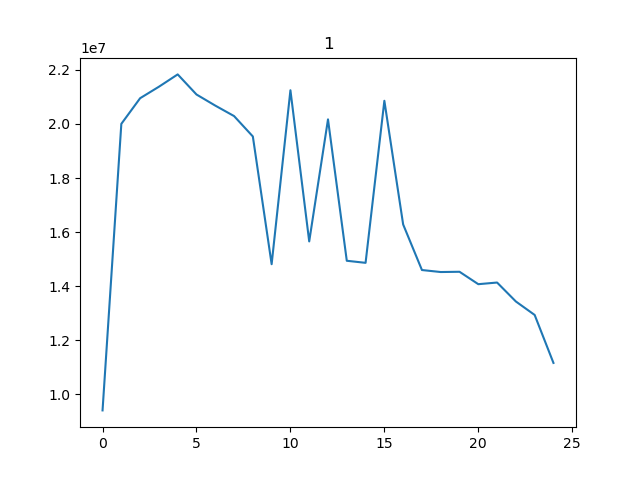
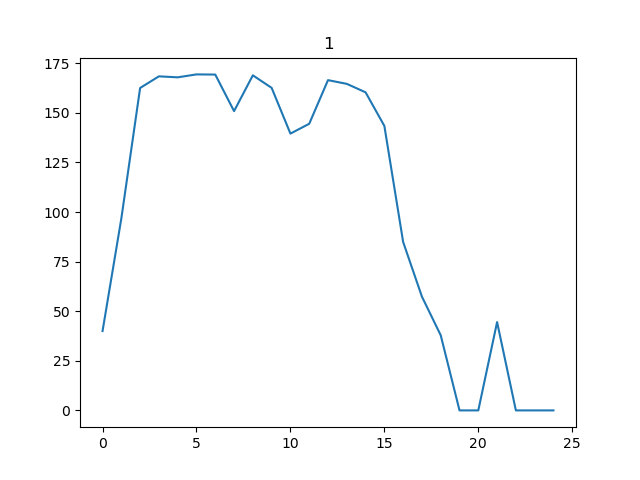
calculating means

diff --git a/processor.py b/processor.py
@@ -1,17 +1,15 @@
 from PIL import Image
-import cache
-import hashlib
 
 
-
-def red_level(image_name, images_cache):
-    image_hash = hash(image_name)
-    if image_hash in images_cache.data.keys():
-        return images_cache[image_hash]
-    retval = 0
+def red_level(image_name):
+    print(f"processing {image_name}")
+    reds = []
     image = Image.open(image_name)
-    for x_idx in range(image.width):
-        for y_idx in range(image.height):
-           retval += image.getpixel((x_idx, y_idx))[0]
-    images_cache.data[image_hash] = retval
-    return retval
+    for x_idx in range(1700, 2100):
+        for y_idx in range(1230, 1450):
+            R, _, _ = image.getpixel((x_idx, y_idx))
+            if R > 30:
+                reds.append(R)
+    if len(reds) == 0:
+        return 0
+    return sum(reds) / len(reds)

diff --git a/main.py b/main.py
@@ -3,8 +3,6 @@ import os
 import processor
 import visualizer
 
-from cache import Cache
-
 experiment_directories = [os.path.join(os.getcwd(), directory)
                           for directory in os.listdir(os.getcwd())
                           if 'эксперимент' in directory]
@@ -13,8 +11,4 @@ experiments = experiments_holder.ExperimentsHolder(experiment_directories)
 
 first_experiment_images = experiments[0]
 
-cache = Cache()
-
-visualizer.visualize([processor.red_level(image, cache) for image in first_experiment_images], '1')
-
-cache.save_cache()
+visualizer.visualize([processor.red_level(image) for image in first_experiment_images], '1')

diff --git a/editor.py b/editor.py
@@ -1,0 +1,20 @@
+from PIL import Image
+
+def edit(name):
+    image = Image.open(name)
+    xs = []
+    ys = []
+    for x_idx in range(1700, 2100):
+        for y_idx in range(1250, 1450):
+            R, _, _ = image.getpixel((x_idx, y_idx))
+            if R < 50:
+                image.putpixel((x_idx, y_idx), (0, 0, 255))
+            else:
+                xs.append(x_idx)
+                ys.append(y_idx)
+    image.save('processed.JPG')
+    return xs, ys
+
+X, Y = edit("unprocessed.JPG")
+print(min(X), max(X))
+print(min(Y), max(Y))
